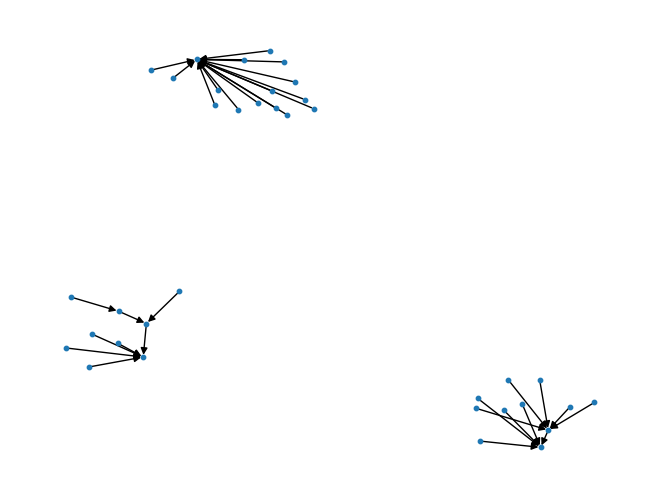
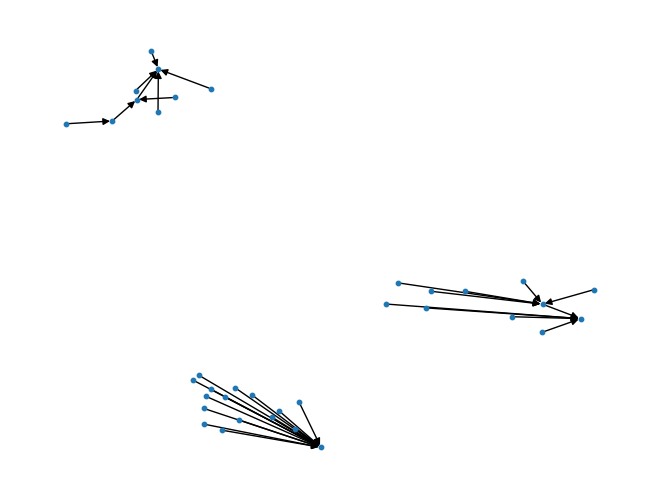
edit weight of edges if there are more interactions

diff --git a/create_network.py b/create_network.py
@@ -22,6 +22,7 @@ if __name__ == "__main__":
 
     # print(df['parent_id'])
     
+    # create edges for comments replying to a comment (parent_id = id)
     l = 1
     for id in df['parent_id']:
       if l <=10:
@@ -35,30 +36,30 @@ if __name__ == "__main__":
           child_rows = df.loc[df['parent_id'] == id]
           # print('p_row: {}\nc_rows: {}'.format(parent_row, child_rows))
 
-          
-          
           # create edges and set nodes name=author
           # add_weighted_edges_from(source = child_author, target = parent_author, weight)
           for index, child_row in child_rows.iterrows():
             child_author = child_row['author']
             parent_author = parent_row['author'].iloc[0]
-            print('p_author: {}\nc_author: {}'.format(parent_author, child_author))
+            # print('p_author: {}\nc_author: {}'.format(parent_author, child_author))
 
-            # TODO: check if authors has already interacted with each other - use .has_node(author), change the weight
-
-            # else set default weight to 1
-            graph.add_weighted_edges_from([(child_author, parent_author, 1)])
+            # check if authors has already interacted with each other - use .has_edge(author), change the weight
+            if graph.has_edge(child_author, parent_author):
+              graph[child_author][parent_author]['weight'] +=1
+            else : # set default weight to 1
+              graph.add_weighted_edges_from([(child_author, parent_author, 1)])
 
           # draw and show graph after adding edges
           nx.draw(graph, node_size=10)
           plt.savefig("graph.png".format(type), bbox_inches='tight')
           plt.show()
-          plt.clf()
-          print('#p_author: {}\n#c_author: {}\n#nodes: {}\n#edges: {}\nEdges: {}\n'.format(1, len(child_rows.index), graph.number_of_nodes(), graph.number_of_edges(), graph.edges.data('weight')))
+          plt.clf() # clear canvas to show most recent graph
 
         l+=1
 
-
+    # TODO: create edges for comments where it is a direct comment on a post (parent_id = link_id)
+    # TODO: analyze the graph and print into file
+    print('#p_author: {}\n#c_author: {}\n#nodes: {}\n#edges: {}\nEdges: {}\n'.format(1, len(child_rows.index), graph.number_of_nodes(), graph.number_of_edges(), graph.edges.data('weight')))
 
     # print(df[df.author == "post_alone_musk"])
 
